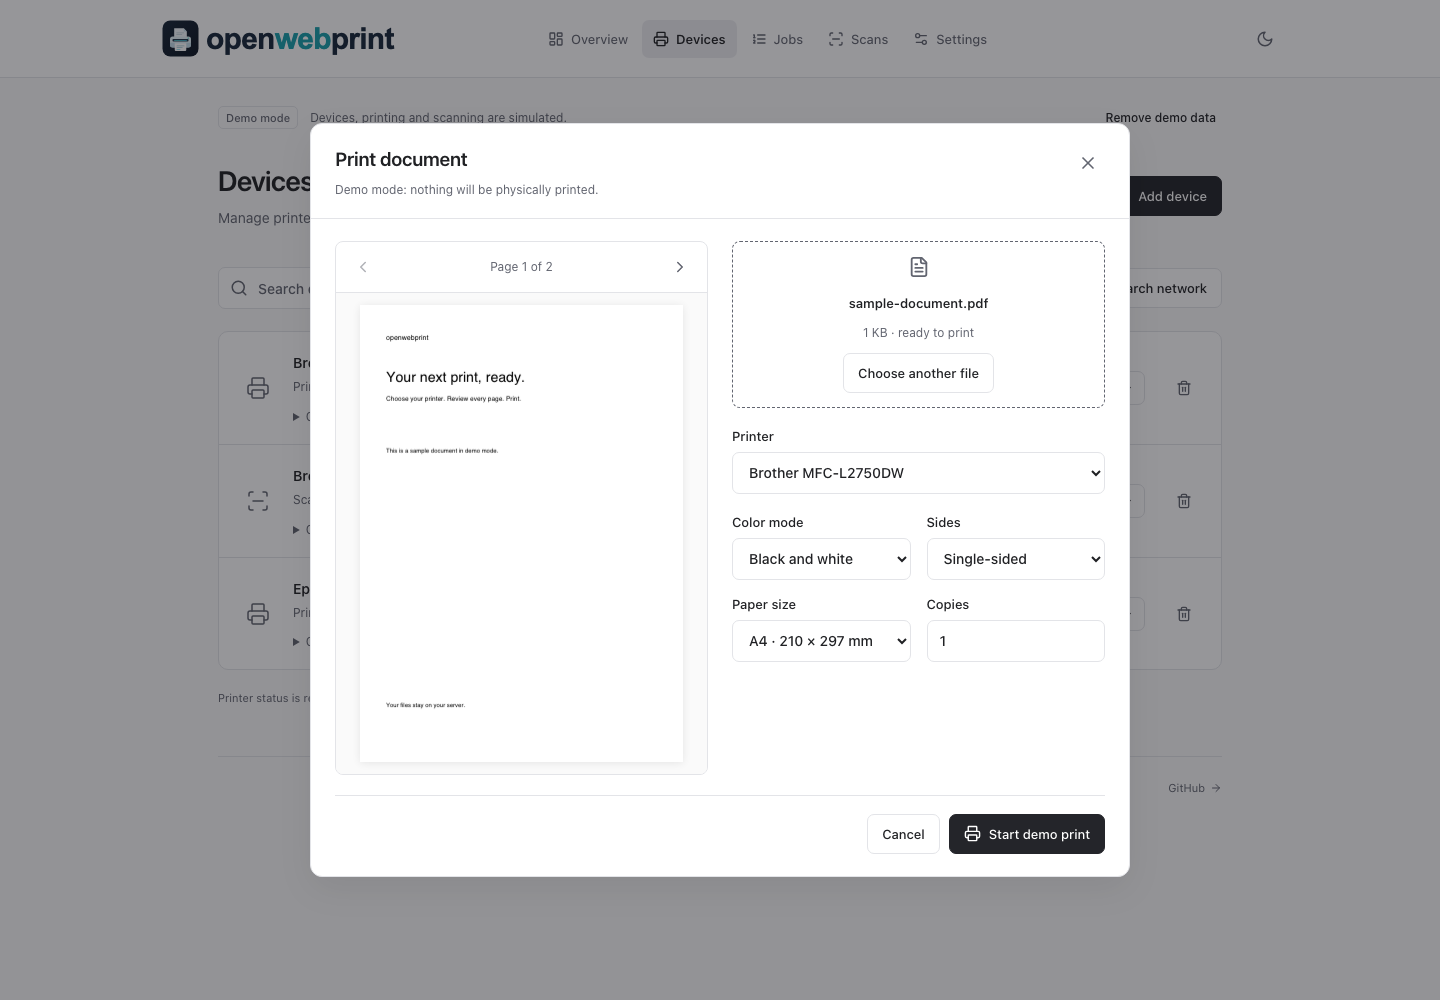
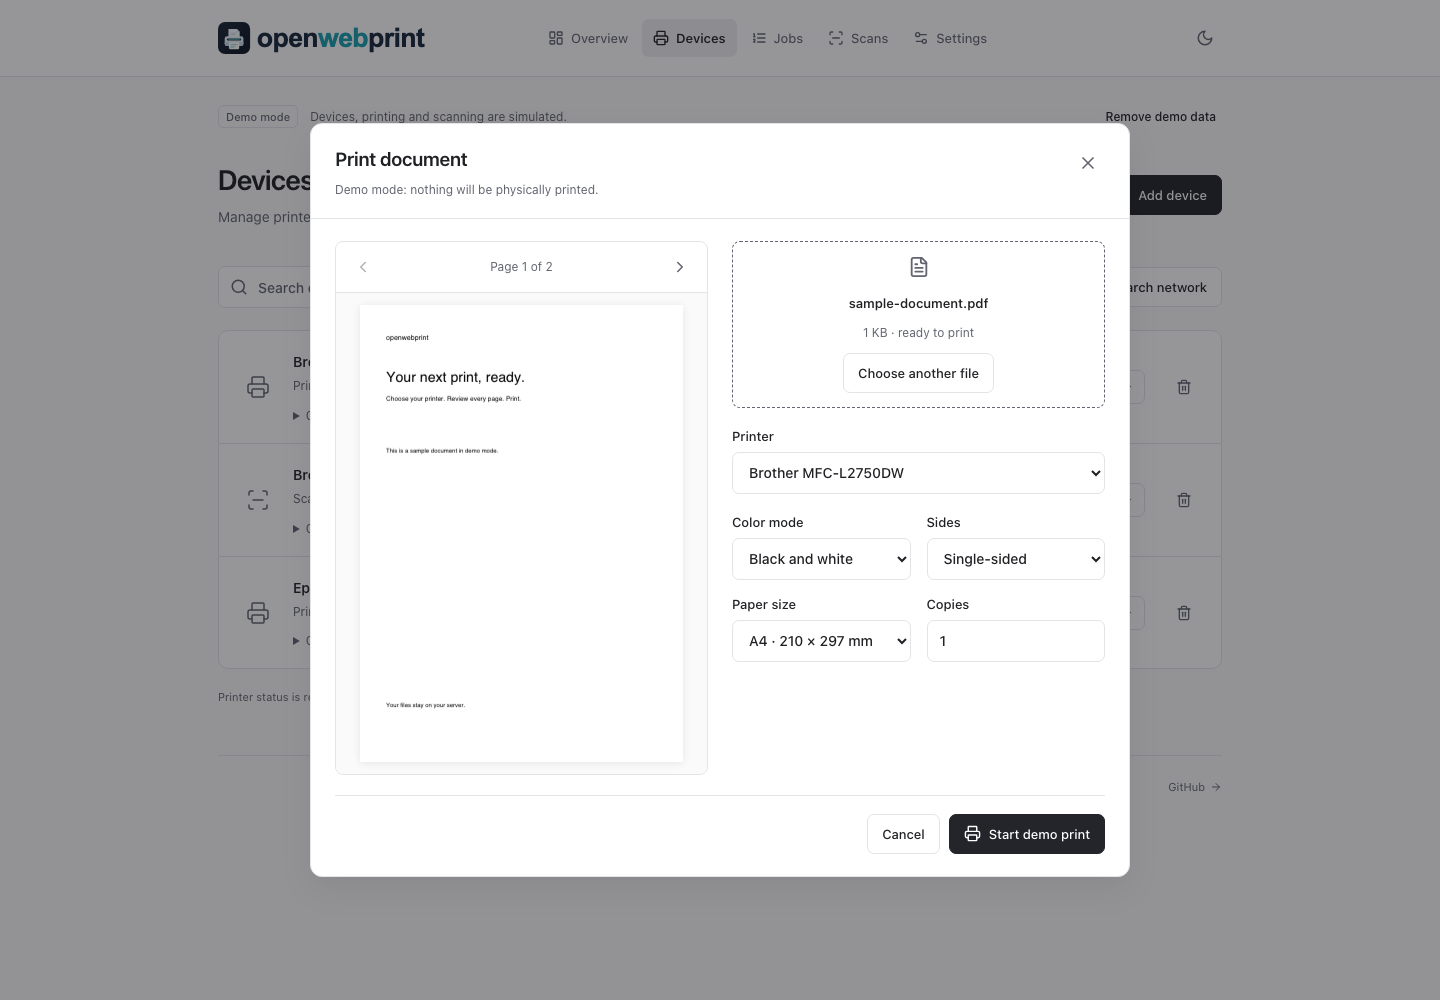
align header branding with page content (#8)

diff --git a/apps/client/src/App.module.css b/apps/client/src/App.module.css
@@ -11,7 +11,7 @@
   align-items: center;
   gap: 28px;
   min-height: 76px;
-  max-width: 1180px;
+  max-width: 1060px;
   margin: auto;
   padding: 16px 28px;
 }
@@ -29,6 +29,9 @@
   display: block;
   width: 100%;
   height: auto;
+}
+.headerInner .brandLogo {
+  width: 210px;
 }
 .brandLogo .brandDark {
   display: none;
@@ -1120,7 +1123,7 @@
 }
 @media (max-width: 480px) {
   .headerInner .brandLogo {
-    width: 200px;
+    width: 180px;
   }
   .headerInner {
     padding-left: 16px;

diff --git a/apps/client/src/Brand.tsx b/apps/client/src/Brand.tsx
@@ -7,14 +7,14 @@ export function Brand() {
         className={s.brandLight}
         src="/openwebprint-logo.svg"
         alt="openwebprint"
-        width={1600}
+        width={1570}
         height={300}
       />
       <img
         className={s.brandDark}
         src="/openwebprint-logo-dark.svg"
         alt="openwebprint"
-        width={1600}
+        width={1570}
         height={300}
       />
     </span>
